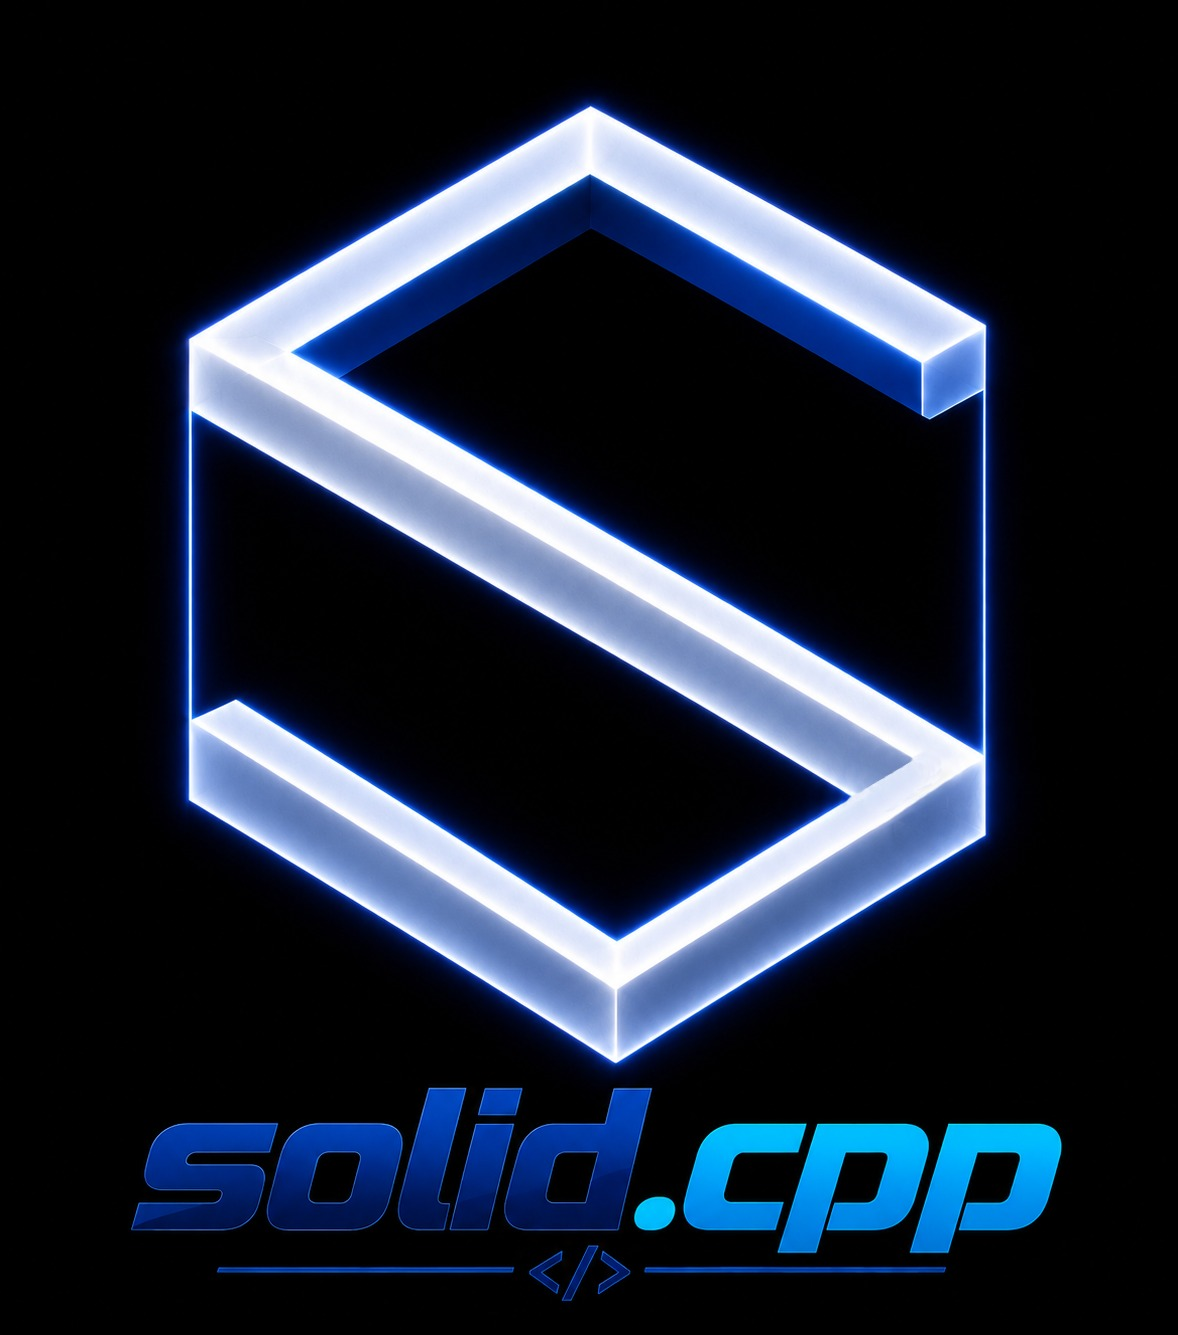
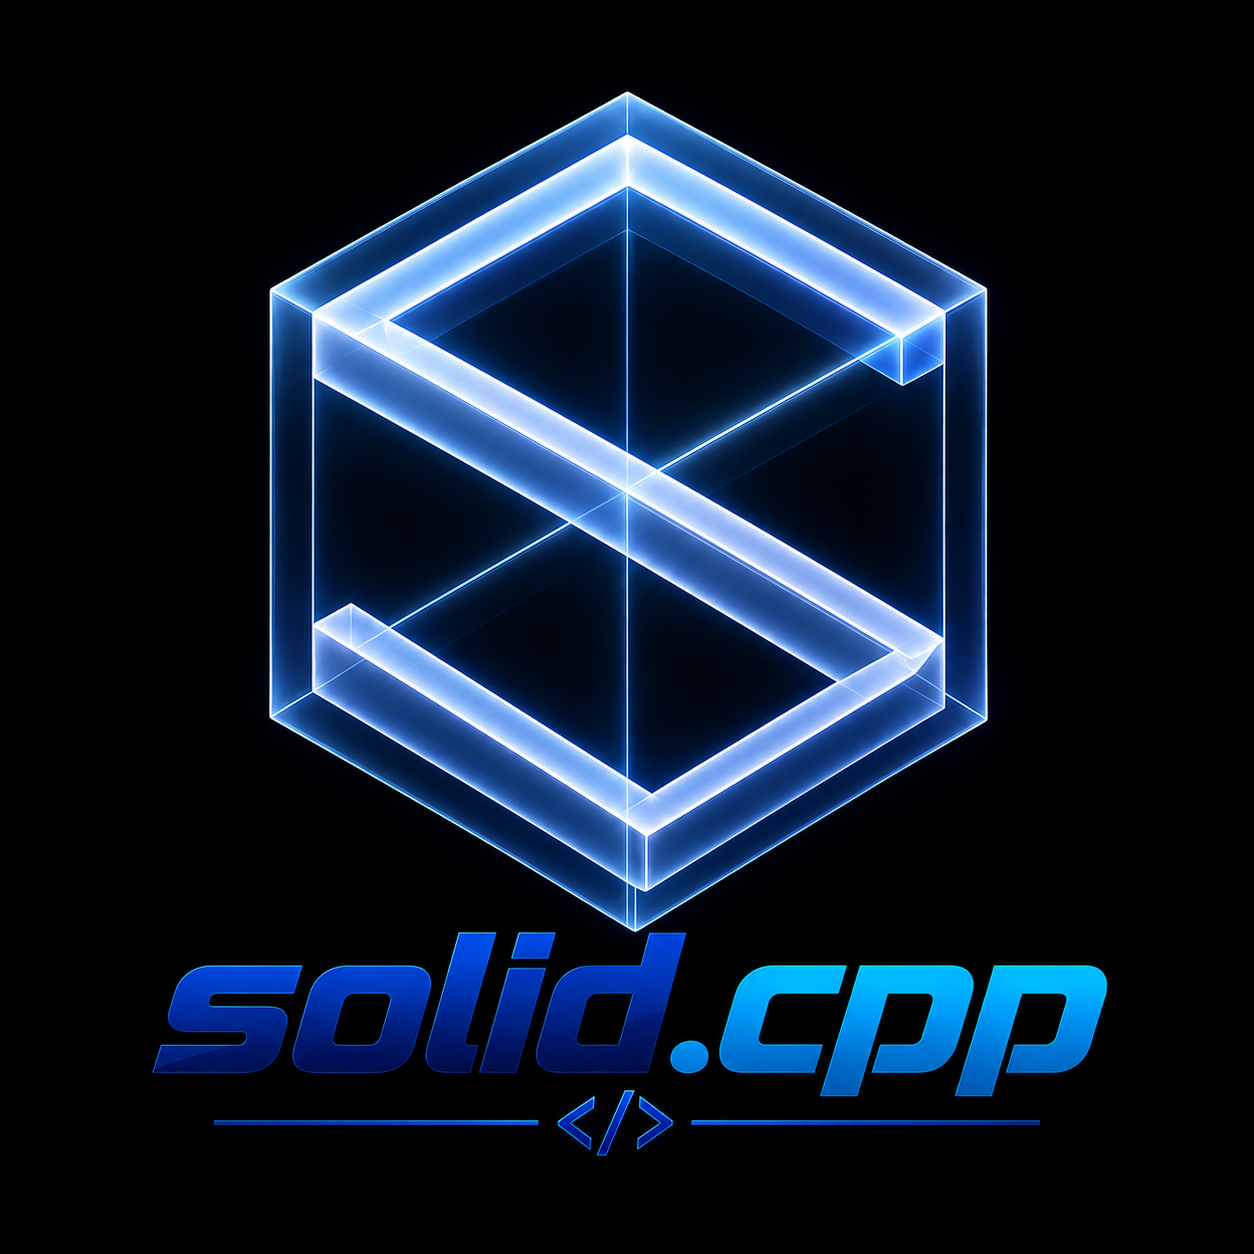
docs: restore all original upstream README content into the Pages site
The first README rewrite this session replaced upstream's content
wholesale (Description bullets, full 17-row backends table,
screenshots, expanded Quick start with all install options,
Documentation's Tools/Development sub-links, Contributing section)
without migrating any of it anywhere - a real content loss, not an
intentional trim. Restores all of it into docs/index.html alongside
the solid.cpp-specific sections, so nothing from the original project
page is missing, just relocated to where it can actually be styled.

Also un-empties the README slightly (one-sentence description + the
upstream badge back) after trimming it too far down to just a logo
and a link, and picks up the higher-resolution logo update.

diff --git a/docs/index.html b/docs/index.html
@@ -136,16 +136,72 @@ dead end isn't walked twice. Several larger, correctly-scoped-but-not-yet-implem
 many-expert MMVQ dispatch gate, among others) are recorded in the notes rather than rushed.</li>
 </ul>
 
+<h2>Description</h2>
+<p>Inherited unchanged from upstream: the main goal of <code>llama.cpp</code> is to enable LLM (and VLM)
+inference with minimal setup and state-of-the-art performance on a wide range of hardware - locally and in
+the cloud.</p>
+<ul>
+<li>Plain C/C++ implementation without any dependencies</li>
+<li>Apple silicon is a first-class citizen - optimized via ARM NEON, Accelerate and Metal frameworks</li>
+<li>AVX, AVX2, AVX512 and AMX support for x86 architectures</li>
+<li>RVV, ZVFH, ZFH, ZICBOP and ZIHINTPAUSE support for RISC-V architectures</li>
+<li>1.5-bit, 2-bit, 3-bit, 4-bit, 5-bit, 6-bit, and 8-bit integer quantization for faster inference and reduced memory use</li>
+<li>Custom CUDA kernels for running LLMs on NVIDIA GPUs (support for AMD GPUs via HIP and Moore Threads GPUs via MUSA)</li>
+<li>Vulkan and SYCL backend support</li>
+<li>CPU+GPU hybrid inference to partially accelerate models larger than the total VRAM capacity</li>
+</ul>
+<p>The <code>llama.cpp</code> project is built on top of the <a href="https://github.com/ggml-org/ggml">ggml</a> library. Also see upstream's
+<a href="https://github.com/ggml-org/llama.cpp/discussions/205">manifesto</a>,
+<a href="https://github.com/ggml-org/llama.cpp/blob/master/docs/ops.md">ops</a>,
+<a href="https://github.com/ggml-org/llama.cpp/issues/9289">lib llama API</a>, and
+<a href="https://github.com/ggml-org/llama.cpp/issues/9291">llama-server REST API</a> references.</p>
+
 <h2>Quick start</h2>
-<p>Build from source - see upstream's <a href="https://github.com/sangharshadhyeta/solid.cpp/blob/moe-cache-port/docs/build.md">build guide</a>, which still applies unchanged:</p>
+<p>A few options to get this build installed on your machine:</p>
+<ul>
+<li>Run with Docker - see upstream's <a href="https://github.com/sangharshadhyeta/solid.cpp/blob/moe-cache-port/docs/docker.md">Docker documentation</a></li>
+<li>Build from source by cloning this repository - check out the <a href="https://github.com/sangharshadhyeta/solid.cpp/blob/moe-cache-port/docs/build.md">build guide</a></li>
+</ul>
 <pre><code>cmake -B build -DGGML_CUDA=ON   # or your backend of choice
 cmake --build build --config Release -j</code></pre>
-<pre><code># Launch an OpenAI-compatible API server
+<p>Once installed:</p>
+<pre><code># Download and run a model directly from Hugging Face
+./build/bin/llama-cli -hf ggml-org/Qwen3.5-0.8B-GGUF
+
+# Launch an OpenAI-compatible API server
 ./build/bin/llama-server -m &lt;model.gguf&gt; -ngl 99</code></pre>
 
+<div class="grid">
+<a class="card" href="https://github.com/user-attachments/assets/88726b48-1713-48aa-a525-95a02e78afc4"><img src="https://github.com/user-attachments/assets/88726b48-1713-48aa-a525-95a02e78afc4" alt="VLM session with llama-cli" style="width:100%;border-radius:6px;margin-bottom:.5rem;"><div class="d">VLM session with <code>llama-cli</code></div></a>
+<a class="card" href="https://github.com/user-attachments/assets/b402f972-2e32-4def-8771-8d849f08cf2e"><img src="https://github.com/user-attachments/assets/b402f972-2e32-4def-8771-8d849f08cf2e" alt="Built-in web UI against llama-server" style="width:100%;border-radius:6px;margin-bottom:.5rem;"><div class="d">Built-in web UI against <code>llama-server</code></div></a>
+</div>
+
 <h2>Supported backends</h2>
-<p>Unchanged from upstream - see <a href="https://github.com/sangharshadhyeta/solid.cpp/blob/moe-cache-port/docs/build.md">docs/build.md</a>
-for the full table and per-backend build flags (CUDA, HIP, Vulkan, Metal, SYCL, CANN, and more).</p>
+<div class="tablewrap">
+<table>
+<thead><tr><th>Backend</th><th>Target devices</th></tr></thead>
+<tbody>
+<tr><td>BLAS</td><td>All</td></tr>
+<tr><td>BLIS</td><td>All</td></tr>
+<tr><td>CANN</td><td>Ascend NPU</td></tr>
+<tr><td>CUDA</td><td>Nvidia GPU</td></tr>
+<tr><td>HIP</td><td>AMD GPU</td></tr>
+<tr><td>Hexagon <span class="note">(in progress)</span></td><td>Snapdragon</td></tr>
+<tr><td>IBM zDNN</td><td>IBM Z &amp; LinuxONE</td></tr>
+<tr><td>MUSA</td><td>Moore Threads GPU</td></tr>
+<tr><td>Metal</td><td>Apple Silicon</td></tr>
+<tr><td>OpenCL</td><td>Adreno GPU</td></tr>
+<tr><td>OpenVINO <span class="note">(in progress)</span></td><td>Intel CPUs, GPUs, and NPUs</td></tr>
+<tr><td>RPC</td><td>All</td></tr>
+<tr><td>SYCL</td><td>Intel GPU</td></tr>
+<tr><td>VirtGPU</td><td>VirtGPU APIR</td></tr>
+<tr><td>Vulkan</td><td>GPU</td></tr>
+<tr><td>WebGPU</td><td>All</td></tr>
+<tr><td>ZenDNN</td><td>AMD CPU</td></tr>
+</tbody>
+</table>
+</div>
+<p class="note">Per-backend build flags in <a href="https://github.com/sangharshadhyeta/solid.cpp/blob/moe-cache-port/docs/build.md">docs/build.md</a>.</p>
 
 <h2>Documentation</h2>
 <div class="grid">
@@ -153,9 +209,49 @@ for the full table and per-backend build flags (CUDA, HIP, Vulkan, Metal, SYCL, 
 <div class="k">Working log</div>
 <div class="d">docs/moe-cache-colibri-notes.md - measurements, dead ends, and root causes for everything above</div>
 </a>
-<a class="card" href="https://github.com/sangharshadhyeta/solid.cpp/tree/moe-cache-port/docs">
-<div class="k">Everything else</div>
-<div class="d">Upstream's own docs - build instructions, backend guides, server API, model support</div>
+<a class="card" href="https://github.com/sangharshadhyeta/solid.cpp/blob/moe-cache-port/docs/build.md">
+<div class="k">How to build</div>
+<div class="d">Full build guide, all backends</div>
+</a>
+<a class="card" href="https://github.com/sangharshadhyeta/solid.cpp/blob/moe-cache-port/tools/server/README.md">
+<div class="k">Server</div>
+<div class="d">llama-server usage and API</div>
+</a>
+<a class="card" href="https://github.com/sangharshadhyeta/solid.cpp/blob/moe-cache-port/tools/cli/README.md">
+<div class="k">CLI</div>
+<div class="d">llama-cli usage</div>
+</a>
+<a class="card" href="https://github.com/sangharshadhyeta/solid.cpp/blob/moe-cache-port/docs/docker.md">
+<div class="k">Docker</div>
+<div class="d">Running on Docker</div>
+</a>
+<a class="card" href="https://github.com/sangharshadhyeta/solid.cpp/blob/moe-cache-port/docs/android.md">
+<div class="k">Android</div>
+<div class="d">Build on Android</div>
+</a>
+<a class="card" href="https://github.com/sangharshadhyeta/solid.cpp/blob/moe-cache-port/docs/multi-gpu.md">
+<div class="k">Multi-GPU</div>
+<div class="d">Multi-GPU usage</div>
+</a>
+<a class="card" href="https://github.com/sangharshadhyeta/solid.cpp/blob/moe-cache-port/docs/development/token_generation_performance_tips.md">
+<div class="k">Performance tips</div>
+<div class="d">Token generation troubleshooting</div>
+</a>
+<a class="card" href="https://github.com/sangharshadhyeta/solid.cpp/blob/moe-cache-port/docs/models.md">
+<div class="k">Models</div>
+<div class="d">Supported model formats and sources</div>
+</a>
+<a class="card" href="https://github.com/sangharshadhyeta/solid.cpp/blob/moe-cache-port/grammars/README.md">
+<div class="k">GBNF grammars</div>
+<div class="d">Constrained-output grammar syntax</div>
+</a>
+<a class="card" href="https://github.com/sangharshadhyeta/solid.cpp/blob/moe-cache-port/docs/completions.md">
+<div class="k">Completions</div>
+<div class="d">Completion endpoint reference</div>
+</a>
+<a class="card" href="https://github.com/sangharshadhyeta/solid.cpp/blob/moe-cache-port/docs/xcframework.md">
+<div class="k">XCFramework</div>
+<div class="d">Apple platform packaging</div>
 </a>
 </div>
 
@@ -165,6 +261,15 @@ changes are pulled in directly rather than re-implemented; nothing here is inten
 own architecture or conventions more than a given fix requires. See upstream's own
 <a href="https://github.com/ggml-org/llama.cpp">README</a> and
 <a href="https://github.com/ggml-org/llama.cpp/discussions/205">manifesto</a> for the base project this builds on.</p>
+
+<h2>Contributing</h2>
+<ul>
+<li>Contributors can open PRs</li>
+<li>Collaborators will be invited based on contributions</li>
+<li>Maintainers can push to branches in the repo and merge PRs into the main branch</li>
+<li>Any help with managing issues, PRs, and projects is very appreciated</li>
+<li>Read upstream's <a href="https://github.com/ggml-org/llama.cpp/blob/master/CONTRIBUTING.md">CONTRIBUTING.md</a> for more information</li>
+</ul>
 
 <h2>License &amp; acknowledgements</h2>
 <p>MIT licensed, same as upstream. Third-party components inherited from upstream, still accurate:</p>

diff --git a/README.md b/README.md
@@ -4,8 +4,14 @@
 
 <img src="solid.cpp.jpeg" alt="solid.cpp" width="360"/>
 
-**[sangharshadhyeta.github.io/solid.cpp →](https://sangharshadhyeta.github.io/solid.cpp/)**
+**llama.cpp, hardened: real bugs found, root-caused, and measured before they ship**
+
+A curated fork of [llama.cpp](https://github.com/ggml-org/llama.cpp) — MoE expert-cache placement and
+speculative-decoding fixes, each one measured before/after on real hardware, not assumed.
+
+**[See the numbers and full writeup → sangharshadhyeta.github.io/solid.cpp](https://sangharshadhyeta.github.io/solid.cpp/)**
 
 [![License: MIT](https://img.shields.io/badge/license-MIT-blue.svg)](https://opensource.org/licenses/MIT)
+[![Based on llama.cpp](https://img.shields.io/badge/based%20on-llama.cpp-blue.svg)](https://github.com/ggml-org/llama.cpp)
 
 </div>
